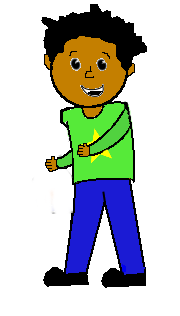
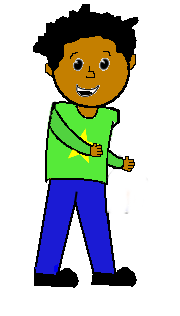
New stuff

diff --git a/src/games/CrabSaveGame.java b/src/games/CrabSaveGame.java
@@ -170,14 +170,14 @@ public class CrabSaveGame extends Game {
 					}
 					else{
 						EstuaryAdventureMain.showMenuCursor();
-						donePlaying=true;
-						dialogBox.setTitle(DialogBox.TITLE_NICE_JOB);
+						dialogBox.setTitle(DialogBox.TITLE_GREAT);
 						dialogBox.setKey1("Trash Left: ");
-						dialogBox.setInfo1("  "+getNumTrash()+" pieces           ");
+						dialogBox.setInfo1("0 pieces        ");
 						dialogBox.setKey2("Your Time: ");
-						dialogBox.setInfo2("        60s");
+						dialogBox.setInfo2("      "+((int)clock.getTimer())+"s");
 						dialogBox.setMessageL1("Thanks for helping");
 						dialogBox.setMessageL2("clean up the estuary!");
+						donePlaying=true;
 					}
 				}
 			}else if(getNumTrash()==0){
@@ -193,7 +193,7 @@ public class CrabSaveGame extends Game {
 					dialogBox.setKey1("Trash Left: ");
 					dialogBox.setInfo1("0 pieces        ");
 					dialogBox.setKey2("Your Time: ");
-					dialogBox.setInfo2("      "+(60-(int)clock.getTimer())+"s");
+					dialogBox.setInfo2("      "+((int)clock.getTimer())+"s");
 					dialogBox.setMessageL1("Thanks for helping");
 					dialogBox.setMessageL2("clean up the estuary!");
 					donePlaying=true;
@@ -301,6 +301,7 @@ public class CrabSaveGame extends Game {
 		}
 		
 		if(state==FISH_FLY){
+			human.setNoFishInBag(true);
 			crabControl=false;
 			fishX+=fishxVel;
 			fishY+=fishyVel;
@@ -312,6 +313,10 @@ public class CrabSaveGame extends Game {
 				fishAngle=-Math.PI/2f;
 				state=CELEBRATE;
 			}
+		}
+		if(state==CELEBRATE){
+			doingEndAnimation=false;
+			doneAnimationSequence2=true;
 		}
 	}
 	private void tellCrabToHoldTrash(){
@@ -340,7 +345,7 @@ public class CrabSaveGame extends Game {
 		g.drawImage(bg2,(int)(Util.getDISTANCE_TO_EDGE()+screenPos),-1000,null);
 		g.drawImage(sun, -Util.getDISTANCE_TO_EDGE()-400,-1600,1000,1300,null);
 		g.drawImage(pond, (int)(screenPos-Util.getDISTANCE_TO_EDGE()), 500, null);
-		if(doingEndAnimation)
+		if(doingEndAnimation || doneAnimationSequence2)
 			g.drawImage(pond2, (int)(screenPos+Util.getDISTANCE_TO_EDGE()), -1000, null);
 		trashCan.render(g,screenPos);
 		
@@ -360,6 +365,11 @@ public class CrabSaveGame extends Game {
 		clock.render(g);
 		if(donePlaying){
 			dialogBox.render(g);
+			g.translate(fishX+100, fishY+100);
+			g.rotate(fishAngle);
+			g.drawImage(fish, -100, -100, null);
+			g.rotate(-fishAngle);
+			g.translate(-fishX-100, -fishY-100);
 		}
 		
 		

diff --git a/src/enemies/TheHuman.java b/src/enemies/TheHuman.java
@@ -25,8 +25,8 @@ public class TheHuman extends Enemy{
 	private BufferedImage greenArrow;
 	private long timer=0;
 	private double angle=0;
-	
-	private BufferedImage go;
+	private boolean noFishInBag=false;
+	private BufferedImage go,noFish;
 	
 	/**
 	 * Creates a human with an initial x and y
@@ -46,6 +46,7 @@ public class TheHuman extends Enemy{
 			pic = Util.loadImage("/HumanPicFish.png", this);
 			greenArrow = Util.loadImage("/greenarrowflipped.png",150,150, this);
 			go = Util.loadImage("/GO.png", this);
+			noFish=Util.loadImage("/HumanNoFish.png", this);
 		} catch (IOException e) {
 			e.printStackTrace();
 		}
@@ -105,8 +106,10 @@ public class TheHuman extends Enemy{
 	public void render(Graphics2D g,double screenPos){
 		g.translate(xPos+screenPos+200, yPos+300);
 		g.rotate(angle);
-		g.drawImage(human.getSprite(1, spriteNum), -200, -300,400,600, null);
-		
+		if(!noFishInBag)
+			g.drawImage(human.getSprite(1, spriteNum), -200, -300,400,600, null);
+		else
+			g.drawImage(noFish, -200, -300,400,600, null);
 		g.rotate(-angle);
 		g.translate(-xPos-screenPos-200, -yPos-300);
 		
@@ -164,4 +167,7 @@ public class TheHuman extends Enemy{
 		return xPos>=Util.getDISTANCE_TO_EDGE();
 	}
 
+	public void setNoFishInBag(boolean noFishInBag) {
+		this.noFishInBag = noFishInBag;
+	}
 }
